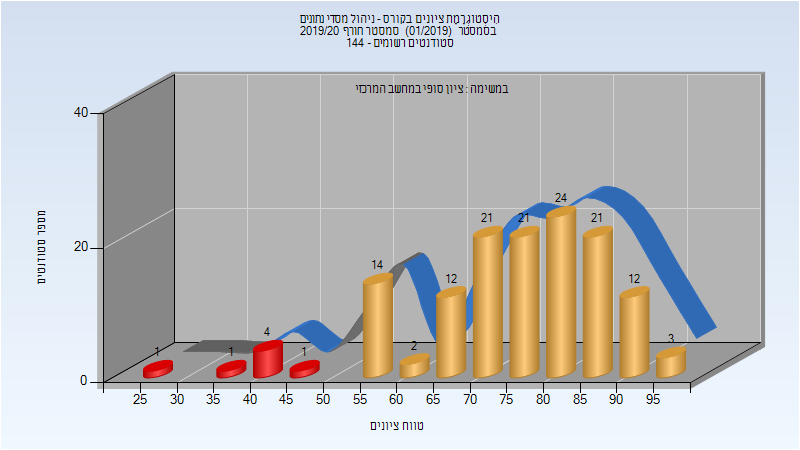
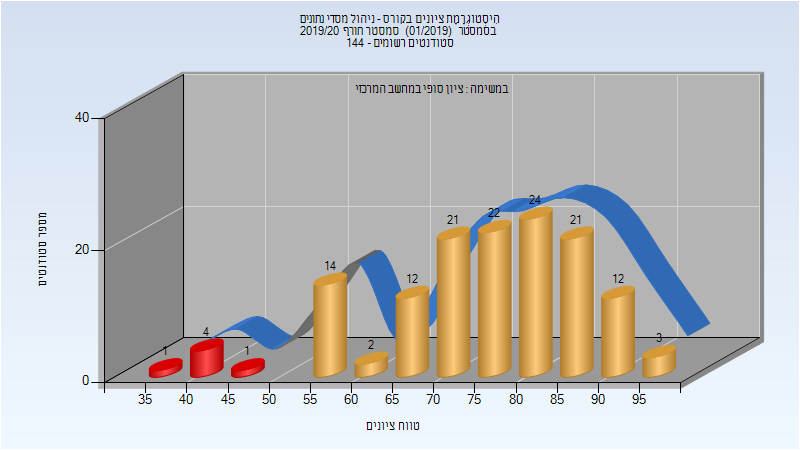
Deploy michael-maltsev/technion-histograms to github.com/michael-maltsev/technion-histograms.git:gh-pages

diff --git a/094241/index.html b/094241/index.html
@@ -604,11 +604,11 @@
 <tbody>
 <tr>
 <td>137</td>
-<td>130/7</td>
-<td>95</td>
-<td>27</td>
+<td>131/6</td>
+<td>96</td>
+<td>38</td>
 <td>97</td>
-<td>74.898</td>
+<td>75.263</td>
 <td>77</td>
 </tr>
 </tbody>

diff --git a/094241/README.md b/094241/README.md
@@ -187,5 +187,5 @@
 
 | סטודנטים | עברו/נכשלו | אחוז עוברים | ציון מינימלי | ציון מקסימלי | ממוצע | חציון |
 | ---- | ---- | ---- | ---- | ---- | ---- | ---- |
-| 137 | 130/7 | 95 | 27 | 97 | 74.898 | 77 |
+| 137 | 131/6 | 96 | 38 | 97 | 75.263 | 77 |
 
